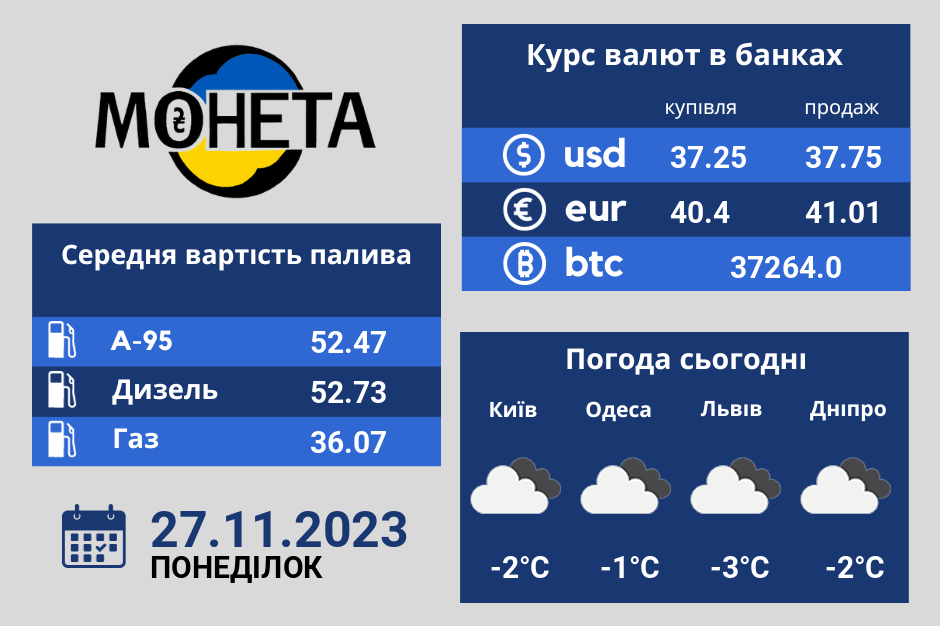
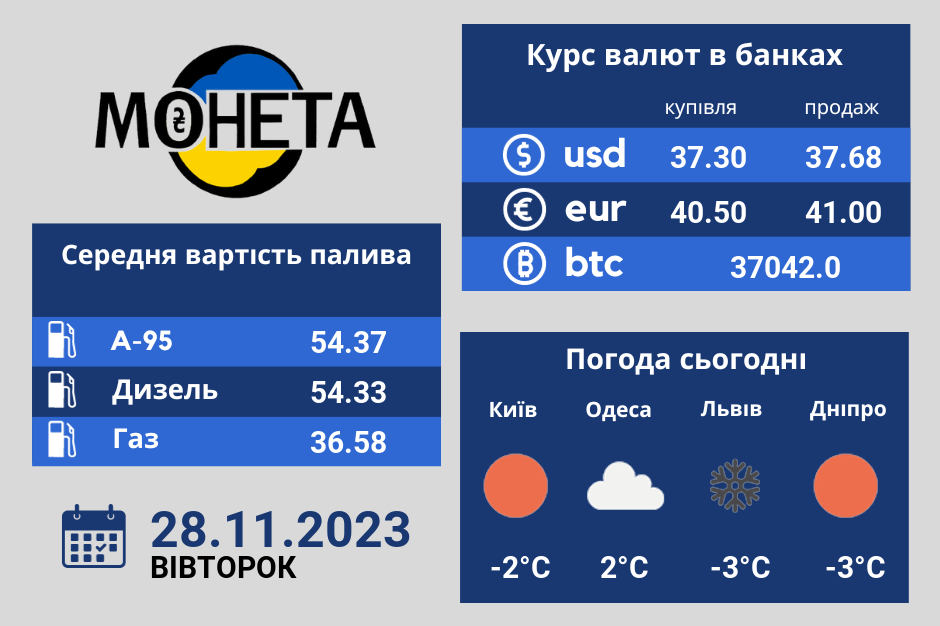
updating currency rate

diff --git a/data_fetcher.py b/data_fetcher.py
@@ -18,10 +18,24 @@ def make_request(url, headers=None):
 
 def parse_currency_data(html):
     soup = BeautifulSoup(html, 'html.parser')
-    currency_data = soup.find_all('td', {'class': 'mfm-text-nowrap'})
+    currency_data = soup.find_all('div', {'class': 'sc-1x32wa2-9',
+                                          'type': 'average'})[:4]
+
+    for item in currency_data:
+        for child in item.find_all(recursive=True):
+            child.decompose()
+
+    currency_data = ["{:.2f}".format(float(rate.text.replace(',','.'))) for rate in currency_data]
+
     return {
-        'usd': currency_data[0].get_text(separator=' ').split(),
-        'eur': currency_data[2].get_text(separator=' ').split()
+        'usd': {
+            'buy' : currency_data[0],
+            'sell': currency_data[1]
+        },
+        'eur': {
+            'buy' : currency_data[2],
+            'sell': currency_data[3]
+        }
     }
 
 
@@ -77,7 +91,7 @@ def get_all_data():
         'User-Agent': 'Mozilla/5.0 (Windows NT 10.0; Win64; x64) AppleWebKit/537.36 (KHTML, like Gecko) Chrome/58.0.3029.110 Safari/537.3'
     }
 
-    currency_url = "https://minfin.com.ua/ua/currency/banks/"
+    currency_url = "https://minfin.com.ua/ua/currency"
     oil_url = "https://index.minfin.com.ua/ua/markets/fuel/"
 
     currency_response = make_request(currency_url, headers)
@@ -89,25 +103,11 @@ def get_all_data():
     all_data = {}
 
     if currency_response and oil_response:
-        currency_rates = parse_currency_data(currency_response.text)
-        oil_prices = parse_oil_data(oil_response.text)
 
-        all_data['currency_rates'] = {
-            'usd': {
-                'buy': round(float(currency_rates['usd'][0].replace(',', '.')), 2),
-                'sell': round(float(currency_rates['usd'][-1].replace(',', '.')), 2)
-            },
-            'eur': {
-                'buy': round(float(currency_rates['eur'][0].replace(',', '.')), 2),
-                'sell': round(float(currency_rates['eur'][-1].replace(',', '.')), 2)
-            }
-        }
+        all_data['currency_rates'] = parse_currency_data(currency_response.text)
 
-        all_data['oil_prices'] = {
-            'A95': float(oil_prices['A95']),
-            'diesel': float(oil_prices['diesel']),
-            'gas': float(oil_prices['gas'])
-        }
+        all_data['oil_prices'] = parse_oil_data(oil_response.text)
+
         all_data['bitcoin_price'] = round(float(get_bitcoin_price()), 2)
 
         cities = ['Київ', 'Одеса', 'Львів', 'Дніпро']
@@ -124,3 +124,5 @@ def get_all_data():
 
     return all_data
 
+
+print(get_all_data())
